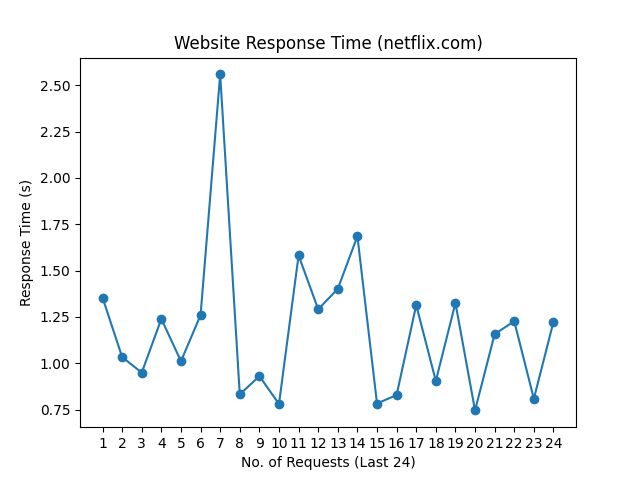
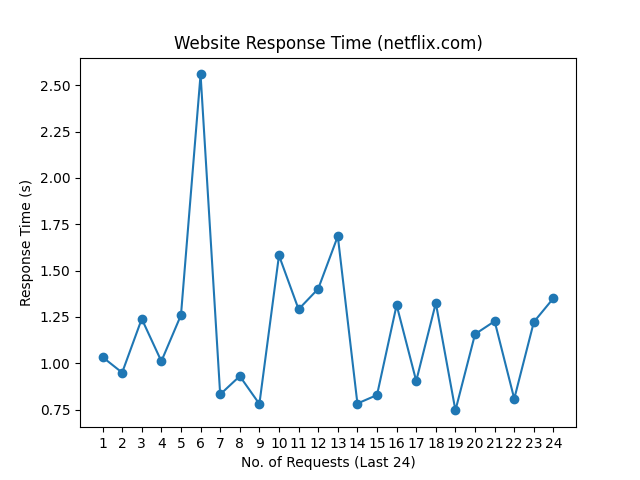
update README.md, history and graph

Changed region(s): [[0.1562, 0.125, 0.875, 0.875]]

diff --git a/README.md b/README.md
@@ -1,10 +1,10 @@
 # Web Monitoring
 
-Last Checked: 23/11/2024 08:20
+Last Checked: 24/11/2024 08:22
 
 | Website | Response Time (s) | Status | Avg Uptime (%) |
 |---------|-------------------|--------|----------------|
 | www.thiswebsiteisdown.net | 0 <br> <img src="graph/thiswebsiteisdown.net.png" alt="Graph" width="200" height="200">  | ❌ Down | 0.00 |
-| www.netflix.com | 1.222791 <br> <img src="graph/netflix.com.png" alt="Graph" width="200" height="200">  | ✅ Up | 100.00 |
-| www.google.com | 0.074631 <br> <img src="graph/google.com.png" alt="Graph" width="200" height="200">  | ✅ Up | 100.00 |
-| www.facebook.com | 0.249602 <br> <img src="graph/facebook.com.png" alt="Graph" width="200" height="200">  | ✅ Up | 100.00 |
+| www.netflix.com | 1.351057 <br> <img src="graph/netflix.com.png" alt="Graph" width="200" height="200">  | ✅ Up | 100.00 |
+| www.google.com | 0.067950 <br> <img src="graph/google.com.png" alt="Graph" width="200" height="200">  | ✅ Up | 100.00 |
+| www.facebook.com | 0.478147 <br> <img src="graph/facebook.com.png" alt="Graph" width="200" height="200">  | ✅ Up | 100.00 |
